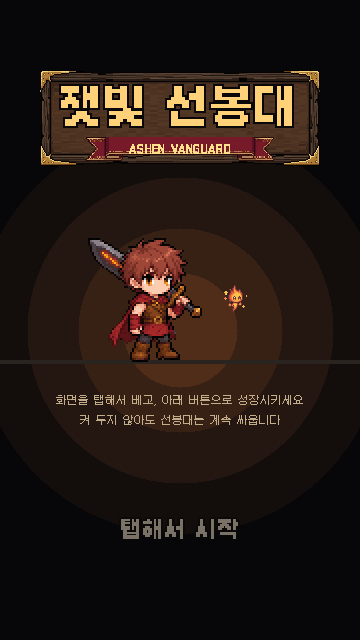
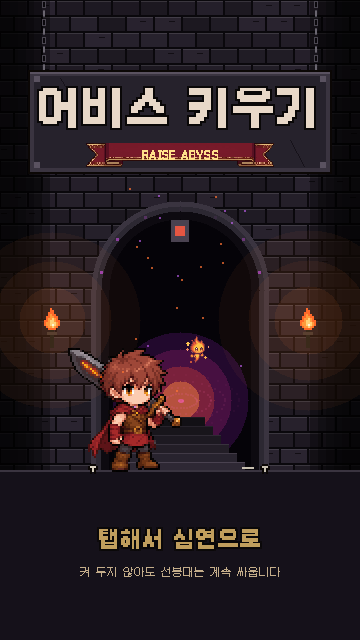
feat: rename to 어비스 키우기 (Raise Abyss), dungeon-gate title, test APK preset
- Game name 어비스 키우기 / Raise Abyss in the title, app label, project settings,
  privacy policy, Play release guide and the brief (package stays com.raiseabyss.game)
- Title screen redrawn as the mouth of the abyss: stone bricks, arched gate with
  a pulsing abyss and stairs, wall torches, chains, the hero at the edge
- export_presets.cfg: 'Android APK (test)' preset for sideloading release-mode APKs
- QA evidence: production/qa/evidence/godot-title.png

Brief: design/game-brief.md

Claude-Session: https://claude.ai/code/session_01JpTyHCxm6u2UHfKmzTPncD

diff --git a/design/game-brief.md b/design/game-brief.md
@@ -1,4 +1,4 @@
-# Game Brief: 잿빛 선봉대 (Ashen Vanguard)
+# Game Brief: 어비스 키우기 (Raise Abyss)
 
 ## In your words
 구글 플레이스토어에 슬레이어 키우기, 중년기사 김봉식 같은 방치형 게임을 만들고 싶어.
@@ -21,6 +21,7 @@ After play: 그리고 배경도 초원에서 마왕성까지 이런 느낌으로
 After play: 일단 시스템을 모두 구현해줘. 그리고 캐릭터 ui가 다 맘에 안들어. 도트 수를 조금 올리더라도 퀄리티가 좋아야할거같은데 rpg인데 방치게임에 유저들이 안할때는 방치하고 가끔 들어와서 꾸준히 할 수 있는 그런 게임을 만들 고 싶어. 캐릭터도 몬스터가 오른쪽에서 나오는데 왼쪽을 보고 있는게 마음에 안들어.
 After play: 도트 인디게임인거는 변함 없어.
 After play: 같은 품질에 2-2.5등신에 머리가 더 크고 귀여운 비율인데 약간 완전 옆을 보는게 아니라 사선 앞을 보는 느낌? 옆모습이랑 앞모습이랑 같이 보이는 느낌 → 시안 2로 전부 제작
+After play: 이름도 어비스 키우기로 바꿔줄래? → 게임 이름 "어비스 키우기" (영문 Raise Abyss, 이전 이름 잿빛 선봉대)
 
 **Pitch:** 몰락한 왕국의 잿빛 길을 혼자 걷던 기사가 동료를 하나씩 모아, 켜 두기만 해도 강해지는 파티로 마왕의 성까지 밀고 나가는 세로형 다크 판타지 방치 RPG.
 

diff --git a/docs/store/privacy-policy.md b/docs/store/privacy-policy.md
@@ -1,10 +1,10 @@
-# 잿빛 선봉대 개인정보처리방침 / Privacy Policy
+# 어비스 키우기 개인정보처리방침 / Privacy Policy
 
 시행일 / Effective date: 2026-11-23
 
 ## 한국어
 
-**잿빛 선봉대**(이하 "게임")는 이용자의 개인정보를 수집하지 않습니다.
+**어비스 키우기**(이하 "게임")는 이용자의 개인정보를 수집하지 않습니다.
 
 1. **수집하는 정보:** 없습니다. 게임은 이름, 이메일, 위치, 연락처, 기기 식별자 등 어떤 개인정보도 수집하지 않습니다.
 2. **기기에 저장되는 정보:** 게임 진행 상황(스테이지, 레벨, 재화, 설정)은 이용자의 기기 안에만 저장됩니다. 이 정보는 외부로 전송되지 않으며, 앱을 삭제하면 함께 삭제됩니다.
@@ -15,7 +15,7 @@
 
 ## English
 
-**Ashen Vanguard** ("the Game") does not collect personal information.
+**Raise Abyss** ("the Game") does not collect personal information.
 
 1. **Information collected:** None. The Game does not collect names, email addresses, location, contacts, device identifiers or any other personal data.
 2. **Information stored on the device:** Game progress (stage, levels, currencies, settings) is stored only on the player's device. It is never transmitted and is removed when the app is uninstalled.

diff --git a/docs/store/play-release.md b/docs/store/play-release.md
@@ -1,4 +1,4 @@
-# 잿빛 선봉대: Google Play 출시 준비
+# 어비스 키우기: Google Play 출시 준비
 
 마지막 확인: 2026-11-23 · Godot 4.7.2 · 타깃 API 36 · AAB · arm64-v8a
 
@@ -32,7 +32,7 @@
 4. **Play Console 계정** (등록비 25달러, 한 번). 새 개인 계정은 출시 전에 **비공개 테스트(테스터 12명 이상, 14일 이상)** 를 거쳐야 프로덕션 출시를 신청할 수 있다. 계정 유형별 조건은 Play Console에서 확인한다.
 5. **Play App Signing 사용**: 첫 AAB 업로드 때 Google이 앱 서명 키를 관리하게 둔다(기본값).
 6. **스토어 등록정보**
-   - 앱 이름: 잿빛 선봉대
+   - 앱 이름: 어비스 키우기 (영문: Raise Abyss)
    - 짧은 설명(80자 이내) 예시: "횃불을 든 선봉대가 마왕성까지. 켜 두기만 해도 강해지는 다크 판타지 방치 RPG"
    - 그래픽: 아이콘 512x512(`docs/store/play-icon-512.png`), 그래픽 이미지 1024x500, 휴대전화 스크린샷 2장 이상
    - 카테고리: 게임 › 롤플레잉
